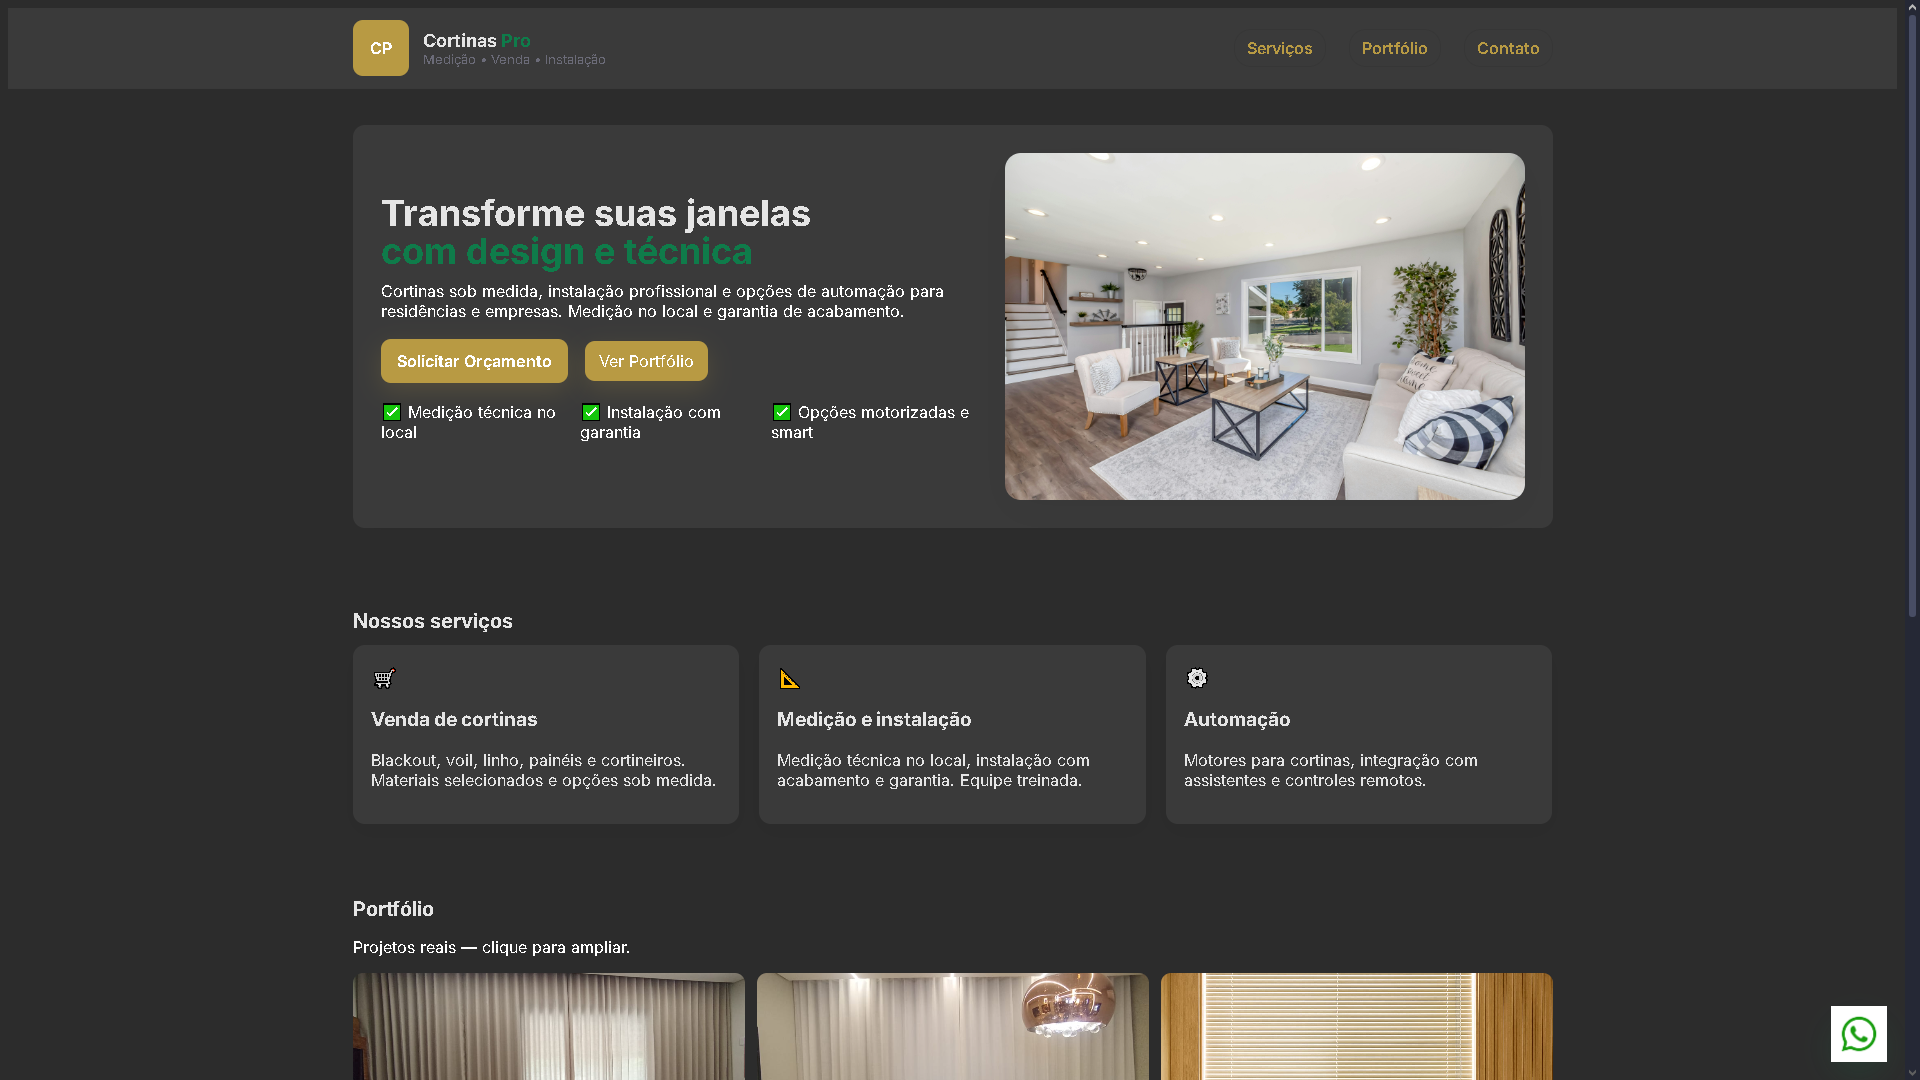
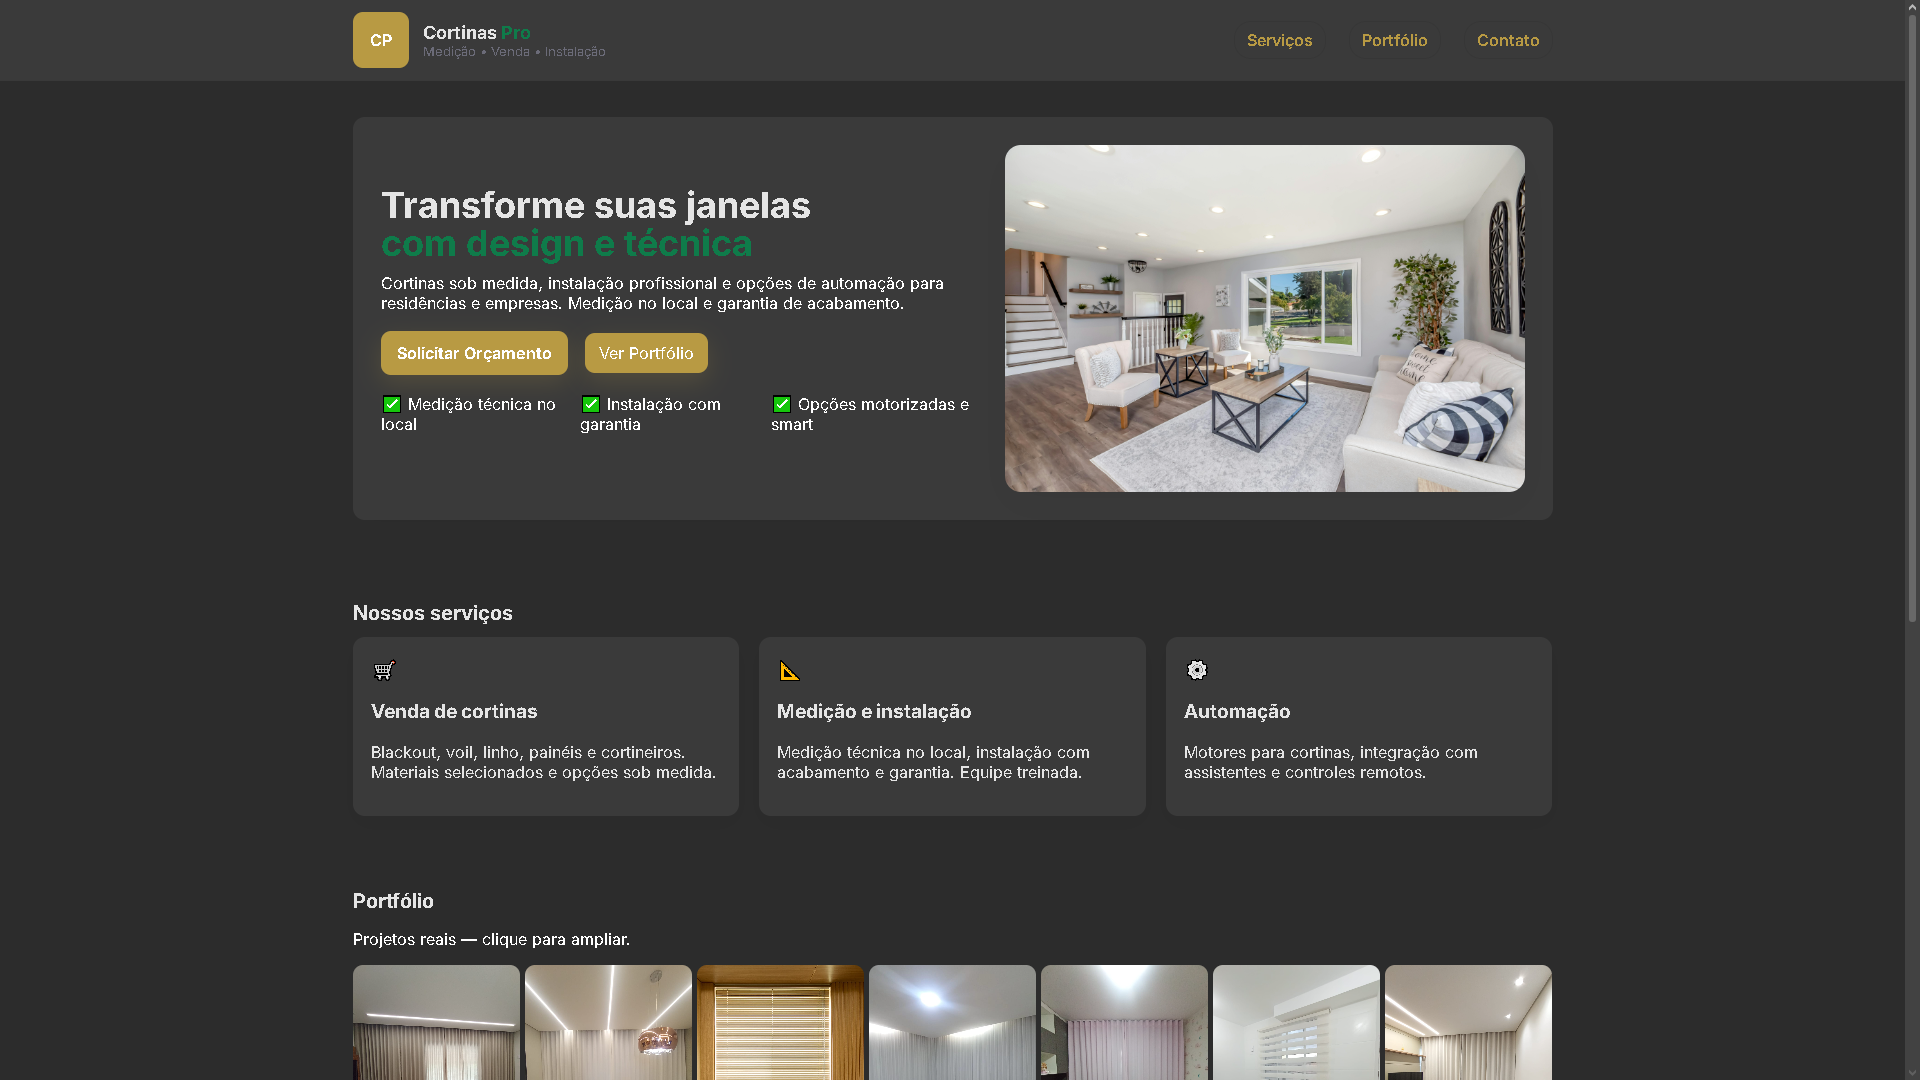
fixed

diff --git a/index.html b/index.html
@@ -113,7 +113,7 @@
             rel="noopener">Ver online</a>
         </article>
         <article class="card">
-          <img src="/imagens/Site cortinas.png" alt="Site cortina" loading="lazy" />
+          <img src="./imagens/Site cortinas.png" alt="Site cortina" loading="lazy" />
           <h3>Web Site</h3>
           <p>O site Cortinas Pro é uma página institucional moderna e objetiva voltada para a promoção de serviços de cortinas sob medida.</p>
           <a class="btn btn--tiny" href="https://renangomesp.github.io/Page-Loja/ " target="_blank" aria-disabled="true">Ver online</a>
